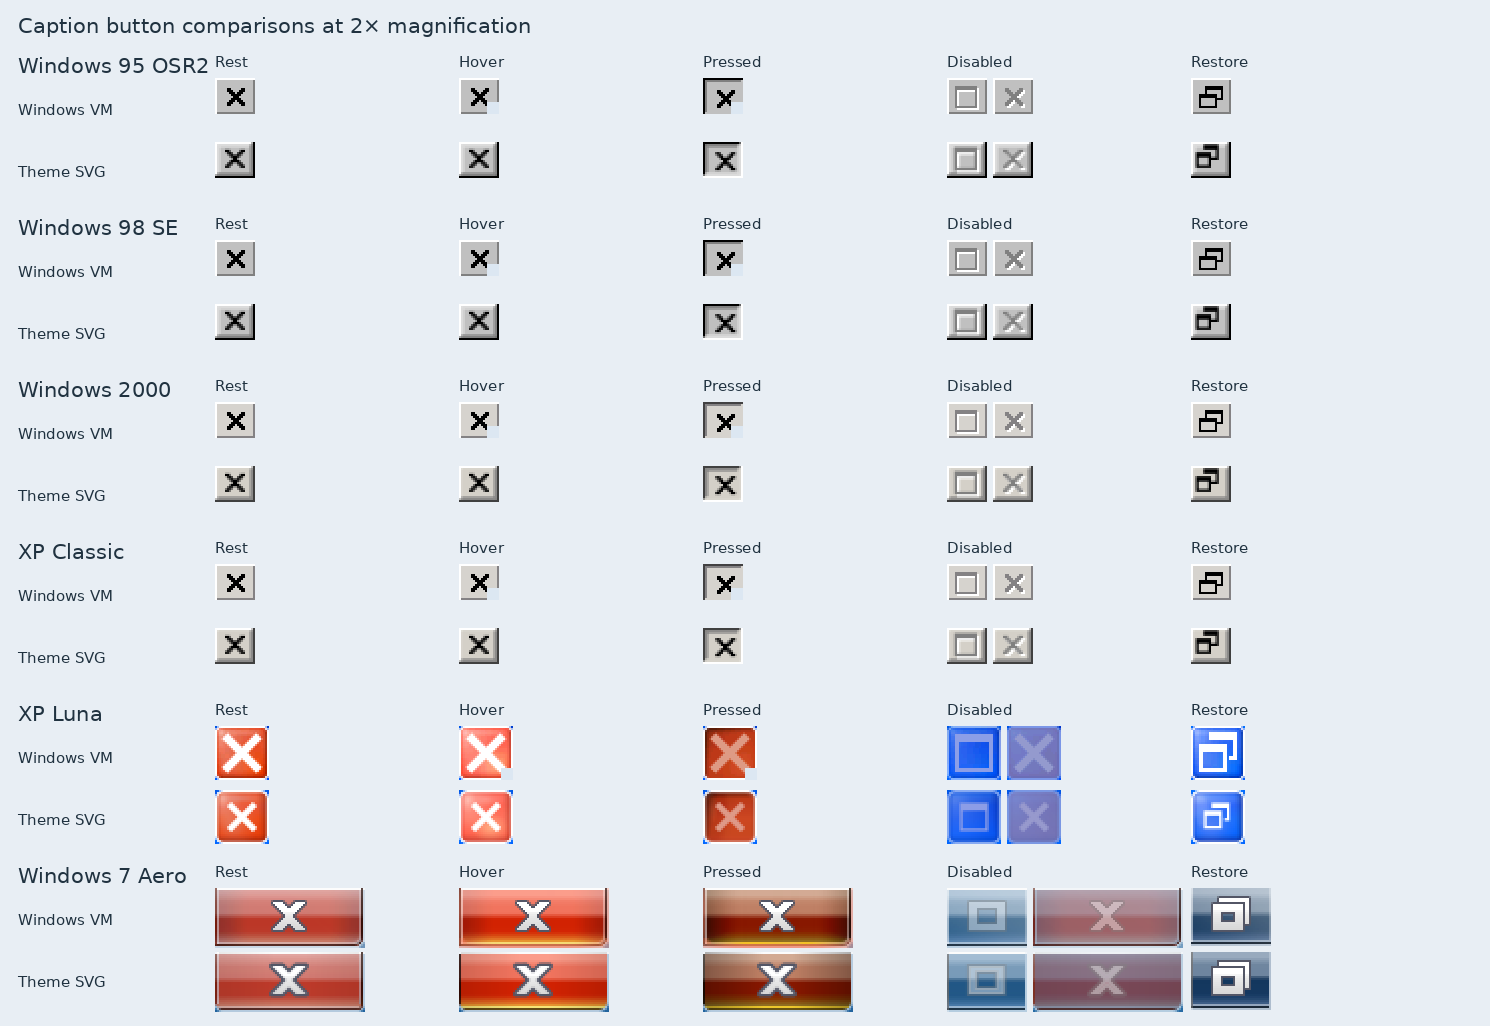
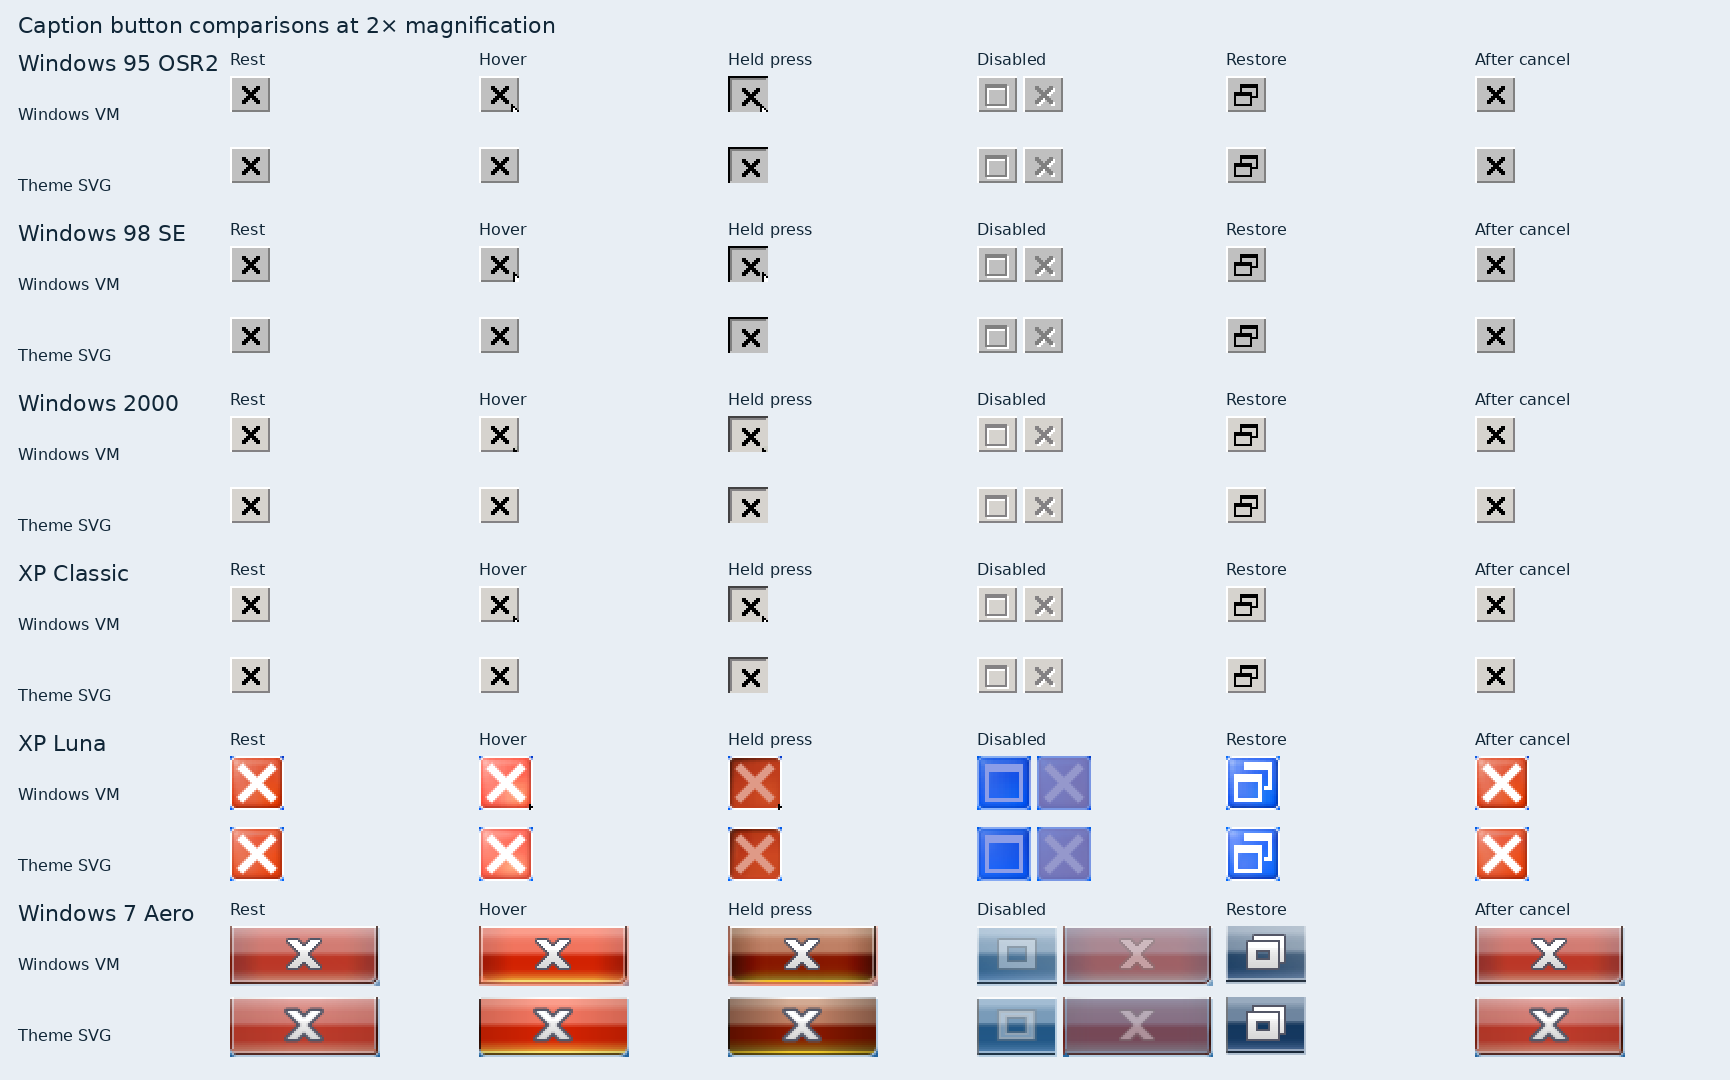
Enhance caption handling for 120 DPI support and update visual audit documentation

diff --git a/aurorae/caption/contents/ui/main.qml b/aurorae/caption/contents/ui/main.qml
@@ -92,9 +92,15 @@ SystemAurorae {
                     KSvg.SvgItem {
                         x: Math.round(stateDelegate.origin.x * frame.outputScale) / frame.outputScale
                         y: Math.round(stateDelegate.origin.y * frame.outputScale) / frame.outputScale
-                        width: Math.ceil(stateDelegate.control.width * frame.outputScale)
-                        height: Math.ceil(stateDelegate.control.height * frame.outputScale)
-                        scale: 1 / frame.outputScale
+                        // KSvg multiplies the requested size by the output DPR.
+                        // Classic has a device-size master for this scale.
+                        width: frame.classicCaptionAt120Dpi
+                            ? Math.ceil(stateDelegate.control.width * frame.outputScale) / frame.outputScale
+                            : Math.ceil(stateDelegate.control.width * frame.outputScale)
+                        height: frame.classicCaptionAt120Dpi
+                            ? Math.ceil(stateDelegate.control.height * frame.outputScale) / frame.outputScale
+                            : Math.ceil(stateDelegate.control.height * frame.outputScale)
+                        scale: frame.classicCaptionAt120Dpi ? 1 : 1 / frame.outputScale
                         transformOrigin: Item.TopLeft
                         smooth: false
                         imagePath: frame.classicCaptionAt120Dpi

diff --git a/tests/visual/parity.py b/tests/visual/parity.py
@@ -16,7 +16,7 @@ from conftest import REPO, load_script
 from original_pixels import compare
 from PIL import Image, ImageColor, ImageFilter
 from plasma_session import HOME_AFTER_SETUP, install, missing_programs, run_session, show, work_folder
-from reference import REFERENCES, qimage_to_pil, render_start_menu, theme_references
+from reference import REFERENCES, qimage_to_pil, render_start_menu, rgb565, theme_references
 from showcase import start_menus, themed
 from test_caption_states_reference import (
     BUTTONS,
@@ -37,7 +37,7 @@ EXPECTED_THEMES = {"win95", "win98", "win2k", "winxp-classic", "winxp", "win7"}
 CAPTION_STATES = STATES[:-1]
 GTK_STATES = dict(zip(CAPTION_STATES, ("normal", "hovered", "pressed", "disabled", "restore"), strict=True))
 CAPTION_RENDERERS = {
-    "svg": CAPTION_STATES,
+    "svg": STATES,
     "kwin": CAPTION_STATES,
     "gtk3": CAPTION_STATES,
     "gtk4": CAPTION_STATES,
@@ -279,22 +279,27 @@ def kwin_face(capture, theme, look, scale, state, index):
         left, top, right, bottom = PRESS_WINDOWS[index] if state == "pressed" else WINDOW
         model = kwin_window(theme, look, right - left + 1, bottom - top + 1)
     rect = model.button_rects()["IAX"[index]]
-    if look in CLASSIC:
-        # The artwork's cell includes a blank row on either side of the bevel.
-        rect.adjust(2 if index == 2 else 0, 1, 0, -1)
-    if look == "luna" and scale % 1:
+    if (look in CLASSIC and scale == 1.25) or (look == "luna" and scale % 1):
         config = configparser.ConfigParser()
         config.read(directory / "home/.config/kwinrc")
-        if config.get("org.kde.kdecoration2", "theme", fallback="") == "org.chicago95.luna":
-            # The Luna wrapper snaps the paint layer's origin and rounds its
-            # size outward, independently of Aurorae's hit rectangle.
+        wrapper = "classic" if look in CLASSIC else "luna"
+        if config.get("org.kde.kdecoration2", "theme", fallback="") == f"org.chicago95.{wrapper}":
+            # The caption wrapper snaps the paint layer's origin, independently
+            # of the window's own origin and Aurorae's hit rectangle.
             def pixel(position):
                 return math.floor(position * scale + 0.5)
 
             # KWin places the snapped decoration on the separately snapped window origin.
             x = pixel(left) + pixel(rect.left())
             y = pixel(top) + pixel(rect.top())
+            if look in CLASSIC:
+                x += 3 if index == 2 else 0
+                y += 1
+                face = screen.crop((x, y, x + 20, y + 18))
+                return rgb565(face) if look in ("2000", "2001") else face
             return screen.crop((x, y, x + math.ceil(rect.width() * scale), y + math.ceil(rect.height() * scale)))
+    if look in CLASSIC:
+        rect.adjust(2 if index == 2 else 0, 1, 0, -1)
     return screen.crop(
         tuple(
             round(edge * scale)
@@ -346,15 +351,7 @@ def exact(expected, actual, directory, mask=None):
 
 @pytest.fixture(scope="module")
 def svg_themes(qt_app, tmp_path_factory):
-    themes = build_caption_themes(tmp_path_factory)
-    luna = tmp_path_factory.mktemp("luna")
-    dpi = round(96 * THEMES["winxp"][1]["caption_scale"])
-    subprocess.run(
-        [sys.executable, str(REPO / "luna/aurorae/make_luna_aurorae.py"), "--dpi", str(dpi), "--out", str(luna)],
-        check=True,
-    )
-    themes["luna"] = luna
-    return themes
+    return build_caption_themes(tmp_path_factory)
 
 
 @pytest.mark.parametrize("theme", THEMES)

diff --git a/tests/test_caption_states_reference.py b/tests/test_caption_states_reference.py
@@ -1,5 +1,8 @@
 """Compare caption button artwork with native guest captures in each interaction state."""
 
+import subprocess
+import sys
+
 import numpy as np
 import pytest
 from aurorae_model import build_theme
@@ -21,7 +24,8 @@ ELEMENTS = {
     "cancelled": "active-center",
 }
 CAPTION_REFERENCES = {
-    metadata["look"]: folder / "caption-states.png" for folder, metadata in theme_references(REFERENCES)
+    metadata["look"]: (folder / "caption-states.png", metadata["caption_scale"])
+    for folder, metadata in theme_references(REFERENCES)
 }
 LOOKS = tuple(CAPTION_REFERENCES)
 CLASSIC = ("1995", "1998", "2000", "2001")
@@ -29,16 +33,23 @@ DISABLED_CLOSE_MATTES = ("dark", "light", "blue")
 # Upper bounds from the native-size comparisons below. Strict mode uses
 # zero RGB differences for each button and reports the pixel count.
 RGB_LIMITS = {
-    "luna": {"rest": 44, "hover": 40, "pressed": 37, "disabled": 25, "restore": 44},
+    "luna": {"rest": 3.9, "hover": 3.7, "pressed": 2.7, "disabled": 3, "restore": 3, "cancelled": 4.3},
     "aero": {"rest": 11, "hover": 19, "pressed": 24, "disabled": 26, "restore": 18},
 }
 
 
 def build_caption_themes(tmp_path_factory):
     themes = {look: build_theme(tmp_path_factory.mktemp(look), look) for look in CLASSIC}
+    luna = tmp_path_factory.mktemp("luna")
+    dpi = round(96 * CAPTION_REFERENCES["luna"][1])
+    subprocess.run(
+        [sys.executable, str(REPO / "luna/aurorae/make_luna_aurorae.py"), "--dpi", str(dpi), "--out", str(luna)],
+        check=True,
+        capture_output=True,
+    )
     return {
         **themes,
-        "luna": REPO / "luna/aurorae/theme",
+        "luna": luna,
         "aero": REPO / "aero/aurorae/theme",
     }
 
@@ -109,7 +120,8 @@ def state_buttons(state):
 
 
 def caption_reference(look):
-    with Image.open(CAPTION_REFERENCES[look]) as sheet:
+    path, _ = CAPTION_REFERENCES[look]
+    with Image.open(path) as sheet:
         return sheet.convert("RGB")
 
 
@@ -128,7 +140,8 @@ def test_caption_svg_matches_windows_reference(caption_themes, exact_original, l
     if look in CLASSIC:
         assert not difference[mask].any(), (look, state, button, difference[mask].mean())
         return
-    limit = RGB_LIMITS[look]["rest" if state == "cancelled" else state]
+    limits = RGB_LIMITS[look]
+    limit = limits.get(state, limits["rest"])
     assert difference[mask].mean() < limit, (look, state, button, difference[mask].mean())
 
 

diff --git a/docs/legacy-windows-visual-audit.md b/docs/legacy-windows-visual-audit.md
@@ -49,16 +49,16 @@ The Windows 98 cold boot advances the bottom colour band to the right by 32 pixe
 
 The caption-state comparison covers Windows 95 OSR2, Windows 98 SE, Windows 2000 Professional, XP Classic, XP Luna and Windows 7 Aero. It pairs native VM crops with the theme SVGs for the resting, hovered and held Minimize, Maximize and Close buttons, the disabled Maximize and Close buttons, and Restore after maximizing Notepad. The classic guests keep the face unchanged when hovered. Luna and Aero change the face on hover. All six looks change the button while held and return to the idle face after the pointer leaves and the press is cancelled. The visual comparisons sample settled states. [Side-by-side comparison](compare/caption-states-vms.png) · [Regression and exact RGB tests](../tests/test_caption_states_reference.py)
 
-All 72 face comparisons differ at strict RGB tolerance. The table shows the highest mean absolute RGB error out of 255 among the tested buttons in each state. A 6×6 lower-right corner is excluded where the guest's software cursor appears.
+The 60 Classic SVG face comparisons pass at strict RGB tolerance at 120 DPI. The faces use device-size vector geometry for the bevel and glyph. Windows 2000 and XP Classic use the guests' RGB565 display palette for comparison. The native software cursor occupies a 6×6 mask in hover and held-press captures. The table shows the highest mean absolute RGB error out of 255 among the tested SVG faces in each state. The Luna comparison generates the same 120-DPI art that Setup installs.
 
-| Look | Rest | Hover | Held press | Disabled | Restore after maximize |
-| --- | ---: | ---: | ---: | ---: | ---: |
-| Windows 95 OSR2 | 50.66 | 48.90 | 33.45 | 38.96 | 79.22 |
-| Windows 98 SE | 50.66 | 48.90 | 33.45 | 38.96 | 79.22 |
-| Windows 2000 Professional | 47.36 | 46.64 | 33.41 | 33.50 | 78.84 |
-| XP Classic | 47.36 | 46.64 | 33.41 | 33.50 | 78.84 |
-| XP Luna | 42.73 | 38.72 | 35.04 | 23.69 | 42.99 |
-| Windows 7 Aero | 9.57 | 17.91 | 22.38 | 24.10 | 16.73 |
+| Look | Rest | Hover | Held press | Disabled | Restore after maximize | After cancel |
+| --- | ---: | ---: | ---: | ---: | ---: | ---: |
+| Windows 95 OSR2 | 0 | 0 | 0 | 0 | 0 | 0 |
+| Windows 98 SE | 0 | 0 | 0 | 0 | 0 | 0 |
+| Windows 2000 Professional | 0 | 0 | 0 | 0 | 0 | 0 |
+| XP Classic | 0 | 0 | 0 | 0 | 0 | 0 |
+| XP Luna | 3.75 | 3.57 | 2.56 | 2.83 | 2.87 | 4.17 |
+| Windows 7 Aero | 9.57 | 17.91 | 22.38 | 21.56 | 16.73 | 9.57 |
 
 On Windows 98 SE, minimizing Notepad left its white client visible as a shrinking title bar travelled toward the taskbar. The system menu was gone at 0.178 s and the desktop had settled by 0.339 s from recording start.
 
